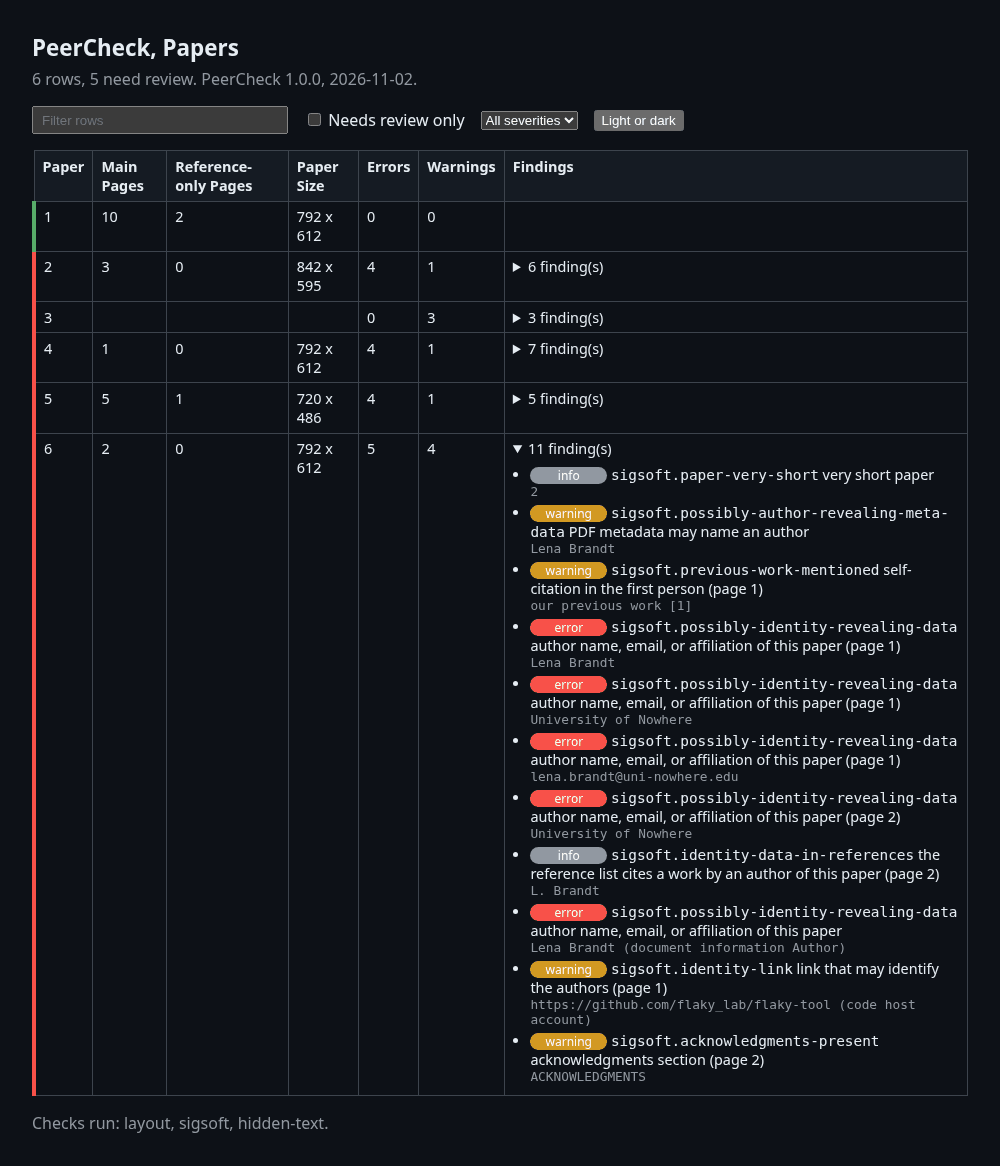
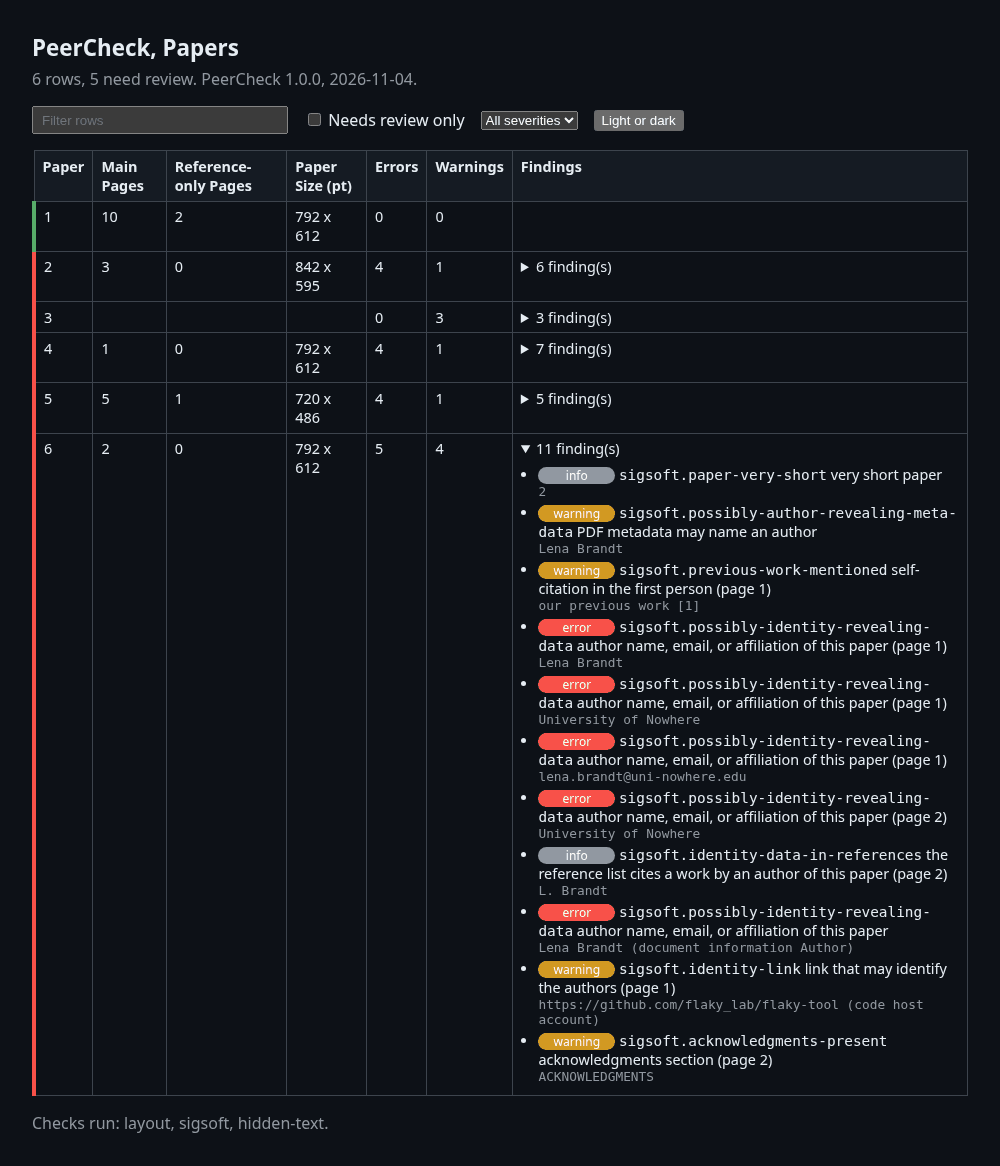
Address a reader review of the README: key for the reports, error rates, limits, requirements, and a citation file

diff --git a/src/report.py b/src/report.py
@@ -117,12 +117,12 @@ def write_sheets(out: Path, sheets: dict[str, list[dict]], findings: list[tuple[
 
 def write_papers_html(out: Path, run: PapersRun) -> None:
     """Write a self-contained HTML page of a paper run for viewing in a browser."""
-    columns = ("Paper", "Main Pages", "Reference-only Pages", "Paper Size", "Errors", "Warnings")
+    columns = ("Paper", "Main Pages", "Reference-only Pages", "Paper Size (pt)", "Errors", "Warnings")
     records = []
     for result in run.results:
         metrics = result.layout.row() if result.layout else {}
         records.append(([result.paper.paper_id, metrics.get("Main Pages"),
-                         metrics.get("Reference-only Pages"), metrics.get("Paper Size (height x width)"),
+                         metrics.get("Reference-only Pages"), metrics.get("Paper Size (height x width, pt)"),
                          count(result.findings, Severity.ERROR), count(result.findings, Severity.WARNING)],
                         result.findings))
     notes = ([f"Paper {paper_id} has no PDF." for paper_id in run.missing_pdfs]

diff --git a/src/checks/layout.py b/src/checks/layout.py
@@ -33,7 +33,7 @@ MIN_PAGES_WITH_REFERENCES = 6
 REPORT_COLUMNS = (
     "Total Pages", "Main Pages", "Reference-only Pages", "References Start Page", "Blank Pages",
     "Appendix Pages", "Figure Pages", "Words", "Characters", "Body Font (pt)", "Reference Font (pt)",
-    "Line Spacing (pt)", "Margins (top, right, bottom, left)", "Columns", "Paper Size (height x width)",
+    "Line Spacing (pt)", "Margins (top, right, bottom, left)", "Columns", "Paper Size (height x width, pt)",
     "Page Number Margin",
 )
 

diff --git a/README.md b/README.md
@@ -13,14 +13,15 @@ It reports format violations, anonymity leaks, hidden text, unverifiable referen
 reviews, and conflicts of interest.
 
 > [!IMPORTANT]
-> PeerCheck assists human reviewers. Every flagged paper or review should be checked by a person.
+> PeerCheck assists the organizers of the review process. Every flagged paper or review should be checked by a
+> person.
 
 ## 🎬 Demo
 
 These two report pages come from the commands below.
 
 ```bash
-peercheck papers submissions/ --authors authors.csv --html report.html
+peercheck papers submissions/ --authors authors.csv --checks layout,sigsoft,hidden-text --html report.html
 peercheck reviews reviews/ --canaries canaries.csv --html reviews.html
 ```
 
@@ -32,6 +33,13 @@ peercheck reviews reviews/ --canaries canaries.csv --html reviews.html
 
 ![HTML report of peercheck reviews on eight example reviews](docs/reviews-report.png)
 
+Each finding is classified as an error, warning, or informational note. An error breaks a stated rule of the
+venue. A warning marks a likely problem. An informational note gives context. A red bar marks a paper or a review
+with an error or a warning.
+
+In the reviews report, CoCoDet P(AI) is the probability that CoCoDet gives to the label AI. EditLens Score runs
+from 0 for human writing to 1 for AI writing. EditLens reads a score of 0.997 or more as AI.
+
 ## 🔍 Checks
 
 Each check has a plain name and, in parentheses, the name that selects it on the command line.
@@ -41,8 +49,8 @@ Each check has a plain name and, in parentheses, the name that selects it on the
 - **Format** (`layout`) checks the page size, columns, margins, fonts, page limits, page numbers, and missing
   sections. It uses the format checker of HotCRP, a conference management system.
 - **Anonymity and template** (`sigsoft`) verifies that the paper uses the template of the venue and identifies
-  anonymity leaks, such as author names, email addresses, affiliations, and revealing links. It uses the
-  submission checker of ACM SIGSOFT, the software engineering group of the ACM, revised.
+  anonymity leaks, such as author names, email addresses, affiliations, and revealing links. It runs a
+  revised copy of the submission checker of ACM SIGSOFT, the software engineering group of the ACM.
 - **Hidden text** (`hidden-text`) finds white, invisible, or tiny text, invisible Unicode characters, and prompts
   or instructions hidden in the PDF and intended for AI systems. It uses the PDF libraries pdfguardrail and
   PyMuPDF and the warning phrases of PhantomLint, a scanner for hidden prompts.
@@ -52,29 +60,35 @@ Each check has a plain name and, in parentheses, the name that selects it on the
 
 ### 💬 Reviews, with `peercheck reviews`
 
+The review checks read the review XML files that EasyChair exports.
+
 - **AI detection** (`cocodet`, `editlens`) labels each review as human-written or AI-generated. A review is
   flagged only when the two detectors label it as AI-generated. This mirrors the policy used by ICLR 2026. The
   two detectors are CoCoDet, trained on peer reviews, with the labels Human, Mix, and AI, and EditLens, trained on
-  AI-edited text, with the labels Human, AI-Edited, and AI.
+  AI-edited text, with the labels Human, AI-Edited, and AI. Mix marks content that is partly human and partly AI.
+  AI-Edited marks human writing that AI edited. On its own test set, CoCoDet labeled 1.31% of human reviews as
+  Mix or AI. With its AI cutoff, EditLens labeled none of the 6,309 human texts of its released test sets as AI.
 - **Planted citation** (`--canaries`) finds reviews that an AI tool wrote from the paper. Before the review period,
   `peercheck canary` writes a copy of each PDF with an instruction hidden in white text. The instruction asks any
   AI tool to cite a made-up work, such as Smith et al. (2019). A review that cites the made-up work of its paper is
-  a hit. The check follows the method of Rao et al. that ICML 2026 used.
+  a hit. The test keeps the chance of any wrong hit among all reviews at 0.1% or less. The check follows the
+  method of Rao et al. that ICML 2026 used.
 - **Copied text** (`duplicates`) identifies highly similar paragraphs across reviews. Two paragraphs count as
   copies when at least half of their short character sequences match. It uses MinHash, a fast search for similar
   text, from the datasketch library.
 - **Citation requests** (`citations`) identifies works that reviewers recommend citing, including their own
-  publications. It matches the requested works against the publications of the reviewers in DBLP.
+  publications. A review that asks for more works than the paper has pages gets a warning. To match the requested
+  works against the publications of the reviewers in DBLP, the check needs the DBLP index that
+  `peercheck conflicts --save-index` writes, passed with `--dblp-index`.
 
 ### 🤝 Conflicts of interest, with `peercheck conflicts`
 
 PeerCheck finds co-authorship in DBLP within the previous three years, consistent with the ACM SIGSOFT Policy on
 Program Committees. It also finds shared email domains, affiliations that match, and declared conflicts without
-supporting evidence. Affiliations match through the word lists of HotCRP. Webmail domains such as gmail.com do not count as
-shared. OpenReview, a review platform, provides the list of webmail domains.
-
-Each finding is classified as an error, warning, or informational note. An error breaks a stated rule of the
-venue. A warning marks a likely problem. An informational note gives context.
+supporting evidence. A name that matches several DBLP authors goes to a person to confirm. A DBLP person ID in
+the committee list avoids the question. Declared conflicts come from the conflict export of EasyChair, passed
+with `--conflict-csv`. Affiliations match through the word lists of HotCRP. Webmail domains such as gmail.com do
+not count as shared. OpenReview, a review platform, provides the list of webmail domains.
 
 ## 🧰 Requirements
 
@@ -86,6 +100,10 @@ venue. A warning marks a likely problem. An informational note gives context.
 sudo apt install perl poppler-utils default-jre   # Debian or Ubuntu
 brew install poppler openjdk                      # macOS, which already has Perl
 ```
+
+PeerCheck is tested on Linux, including WSL on Windows. The models and the DBLP database take about 5 GB of
+disk. No graphics card is needed. On an Intel Core i5-13500 processor, the demo above took about 4 seconds for six
+papers and 21 seconds for eight reviews, the loading of the models included.
 
 ## 📦 Install
 
@@ -133,7 +151,7 @@ peercheck conflicts --authors authors.csv --pc pc.csv --dblp-dump dblp.xml.gz
 peercheck canary submissions/ --out marked/ --key canaries.csv           # plants a citation in each PDF
 peercheck reviews reviews/ --canaries canaries.csv                       # finds the planted citations
 peercheck --profile fse-2027 papers submissions/                         # uses the rules of FSE 2027
-python run.py                                                            # opens an interactive menu
+peercheck menu                                                           # opens an interactive menu
 ```
 
 Each command writes an Excel workbook. A paper or a review needs a closer look when any of its findings is an
@@ -141,7 +159,8 @@ error or a warning.
 
 > [!TIP]
 > Check the original PDFs with `peercheck papers` before `peercheck canary`, since the hidden-text check reports the
-> planted citation.
+> planted citation. Then upload the marked copies to the conference system in place of the originals, before the
+> reviewers download the papers.
 
 > [!WARNING]
 > Keep the key file of `peercheck canary` private, since it reveals the planted citation of each paper.
@@ -168,12 +187,13 @@ The commands read these inputs.
 | `--canaries` | reviews | runs the planted-citation check with the key file of `peercheck canary` |
 | `--device` | reviews | runs the detectors on the processor (`cpu`) or an NVIDIA graphics card (`cuda`) |
 | `--pc`, `--reviewer-csv` | conflicts | read the committee list |
-| `--dblp-dump` | conflicts | builds the co-author index from `dblp.xml.gz`, the full download of DBLP |
+| `--conflict-csv` | conflicts | reads the declared conflicts that EasyChair exports |
+| `--dblp-dump` | conflicts | builds the co-author index from `dblp.xml.gz`, the full download of DBLP at dblp.org/xml |
+| `--dblp-index` | reviews, conflicts | reads the index that `--save-index` of `peercheck conflicts` wrote |
 | `--years` | conflicts | sets the co-authorship window, 3 years by default |
 | `--key` | canary | names the private file that lists the planted citation of each paper |
 
-`peercheck setup <name>` downloads `references`, `cocodet`, or `editlens`. `peercheck doctor` lists missing
-programs. Run any command with `--help` for every option.
+Run any command with `--help` for every option.
 
 ## 🏛 Venue profiles
 
@@ -205,7 +225,7 @@ mvn -f external/submission-checker/pom.xml package   # rebuilds the revised SIGS
 ## 📄 License
 
 PeerCheck is licensed under the GNU General Public License version 3. `NOTICE.md` lists the tools of other authors
-with their licenses.
+with their licenses. To cite PeerCheck, use *Cite this repository* on GitHub, which reads `CITATION.cff`.
 
 ## 📚 References
 
